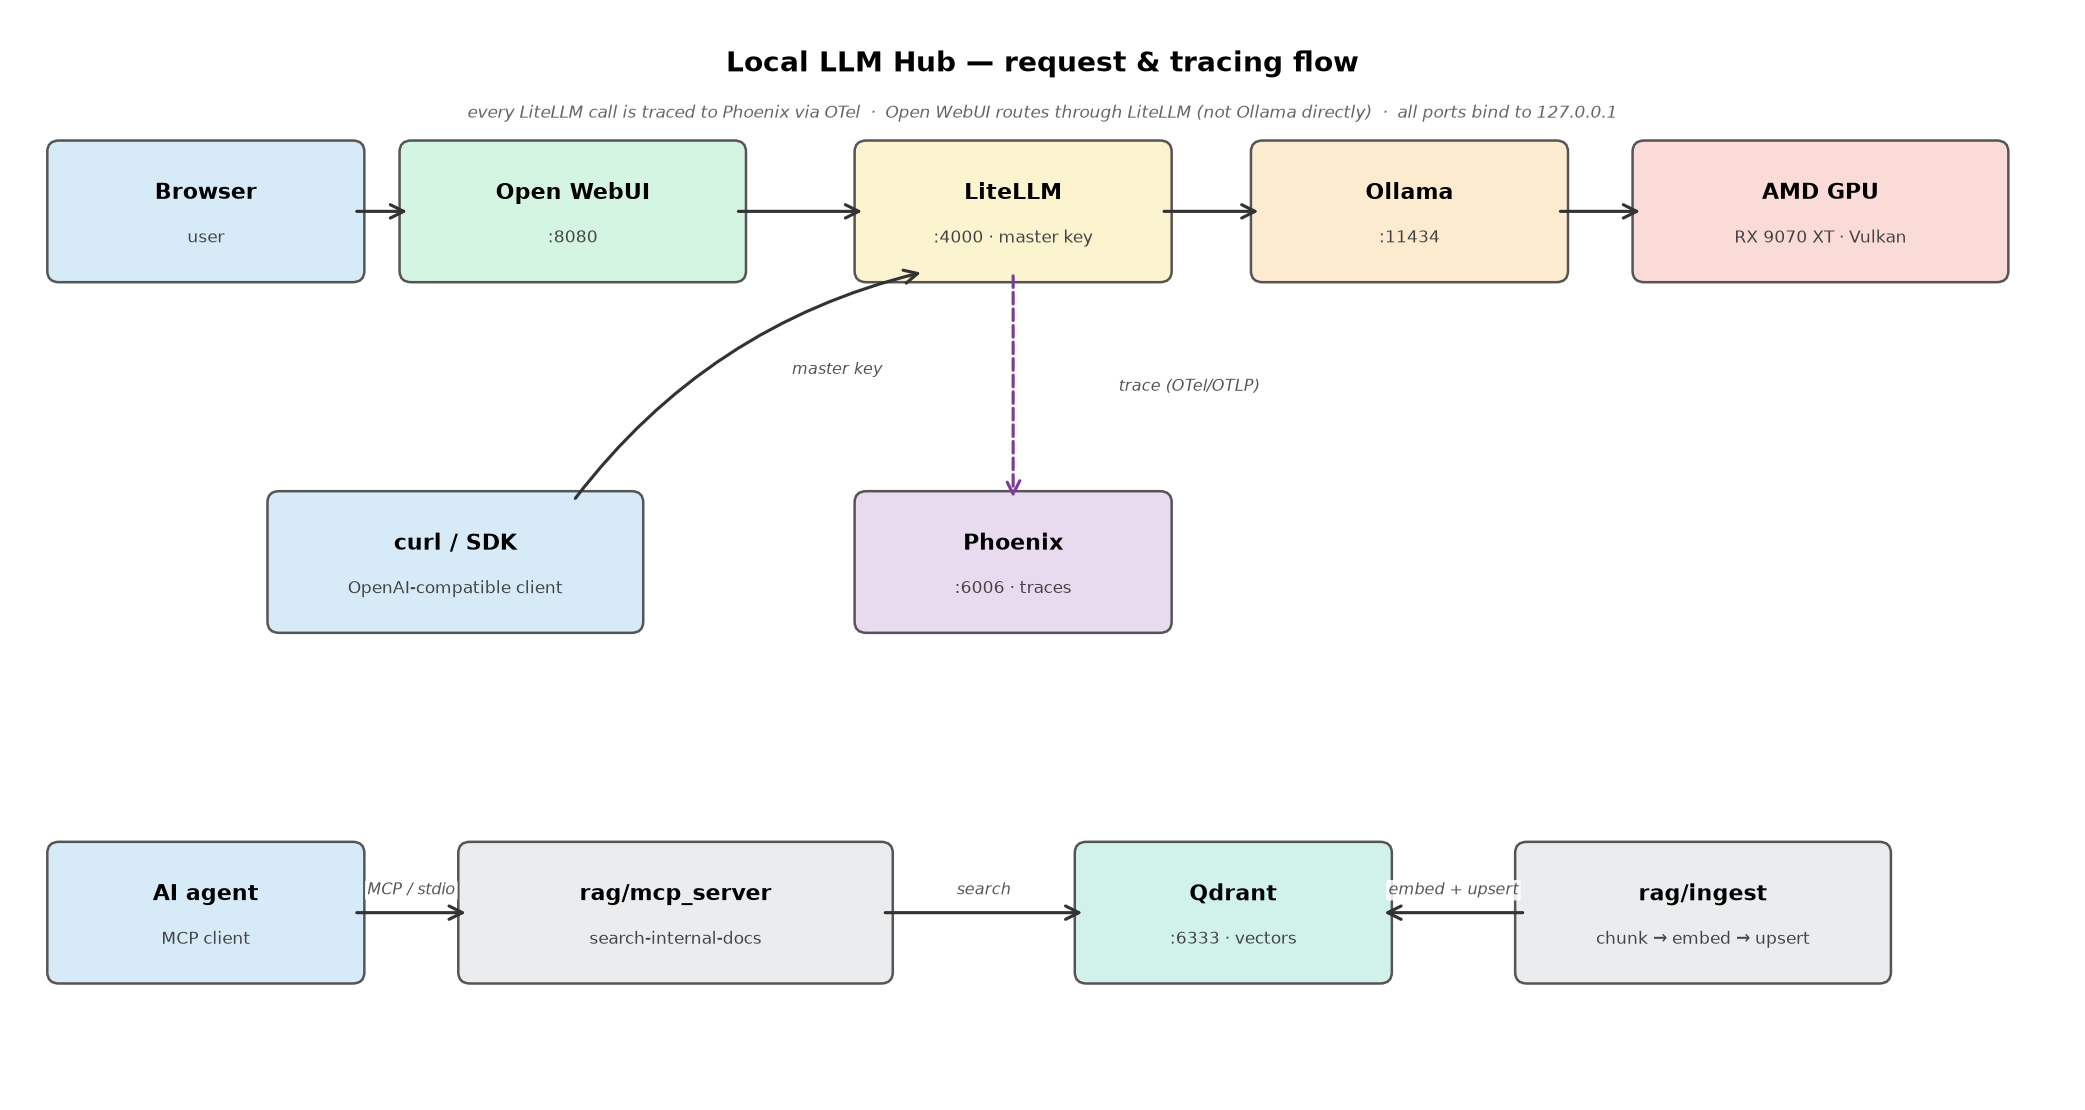
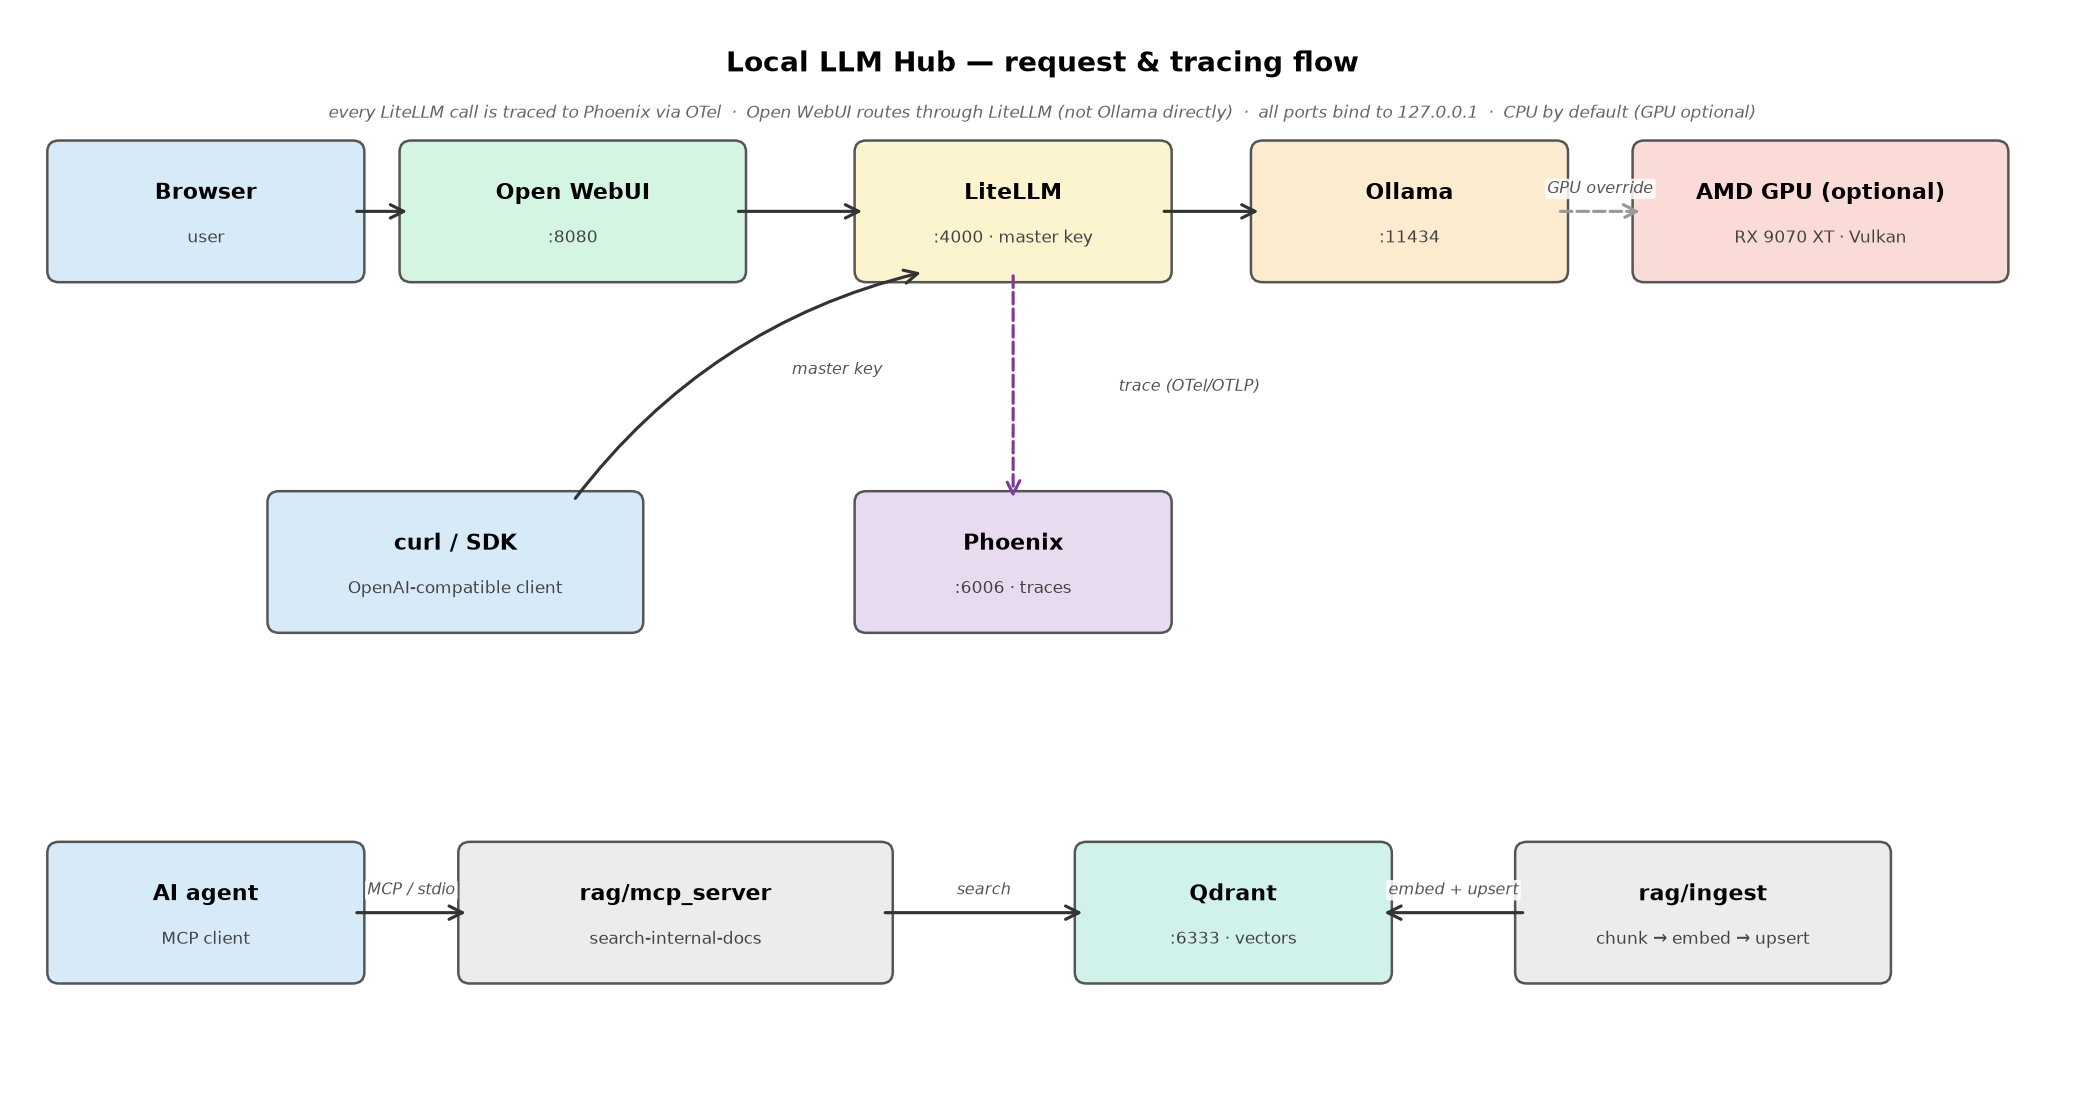
docs: mark GPU optional in architecture diagram; add K8s topology diagram

Changed region(s): [[0.1559, 0.0919, 0.8417, 0.1225], [0.717, 0.1532, 0.9353, 0.2144]]

diff --git a/assets/render_k8s_topology.py b/assets/render_k8s_topology.py
@@ -1,0 +1,127 @@
+# /// script
+# requires-python = ">=3.11"
+# dependencies = ["matplotlib"]
+# ///
+"""Render the local-llm-hub Kubernetes (kind) deployment-topology diagram.
+
+Run:  uv run assets/render_k8s_topology.py
+
+Companion to architecture.png (which shows the logical request/tracing flow).
+This shows the K8s *deployment* view:
+  - 5 single-replica Deployments + NodePort Services
+  - 4 PVCs (ollama, qdrant, phoenix, open-webui; litellm is DB-less)
+  - initContainer ordering (open-webui waits litellm; litellm waits ollama)
+  - host localhost access via kind extraPortMappings (4 ports; ollama internal-only)
+  - post-install model-pull Job
+"""
+from pathlib import Path
+
+import matplotlib
+
+matplotlib.use("Agg")
+import matplotlib.pyplot as plt
+from matplotlib.patches import FancyArrowPatch, FancyBboxPatch, Rectangle
+
+C = {
+    "entry":  "#D6EAF8",  # host
+    "pod_ow": "#D5F5E3",  # open-webui
+    "pod_ll": "#FCF3CF",  # litellm
+    "pod_ol": "#FDEBD0",  # ollama
+    "pod_qd": "#D1F2EB",  # qdrant
+    "pod_px": "#E8DAEF",  # phoenix
+    "pvc":    "#AEB6BF",  # volumes
+    "job":    "#F9E79F",  # pull job
+}
+
+fig, ax = plt.subplots(figsize=(14, 8.2))
+ax.set_xlim(0, 14)
+ax.set_ylim(0.4, 8.2)
+ax.axis("off")
+
+
+def box(cx, cy, w, h, title, subtitle, color):
+    ax.add_patch(FancyBboxPatch((cx - w / 2, cy - h / 2), w, h,
+                                boxstyle="round,pad=0.04", fc=color, ec="#555", lw=1.2))
+    ax.text(cx, cy + 0.16, title, ha="center", va="center", fontsize=9.5, fontweight="bold")
+    ax.text(cx, cy - 0.18, subtitle, ha="center", va="center", fontsize=7.5, color="#444")
+
+
+def arrow(x1, y1, x2, y2, label=None, style="-", color="#333", rad=0.0,
+          loff=(0, 0.16), fs=7.5):
+    ax.add_patch(FancyArrowPatch((x1, y1), (x2, y2),
+                                 arrowstyle="-|>", mutation_scale=12, lw=1.4,
+                                 color=color, linestyle=style,
+                                 connectionstyle=f"arc3,rad={rad}"))
+    if label:
+        mx, my = (x1 + x2) / 2 + loff[0], (y1 + y2) / 2 + loff[1]
+        ax.text(mx, my, label, ha="center", va="center", fontsize=fs, color=color,
+                bbox=dict(boxstyle="round,pad=0.15", fc="white", ec="none", alpha=0.9))
+
+
+# --- Cluster boundary ---
+ax.add_patch(Rectangle((0.4, 1.15), 13.2, 4.95, fc="#FBFCFC", ec="#7B8A8B", lw=1.4, ls="--"))
+ax.text(0.65, 5.95, "kind cluster  ·  namespace: local-llm-hub",
+        fontsize=8.5, color="#7B8A8B", fontweight="bold")
+
+# --- Host band (outside the cluster) ---
+box(7.0, 6.75, 6.4, 0.8, "Host — localhost",
+    "4000 · 8080 · 6006 · 6333  →  extraPortMappings → NodePorts", C["entry"])
+
+# --- Pods (single row) ---
+PY = 4.85
+box(1.7, PY, 2.2, 0.85, "open-webui", "Deployment · 1 replica", C["pod_ow"])
+box(4.4, PY, 2.2, 0.85, "litellm", "Deployment · 1 replica", C["pod_ll"])
+box(7.1, PY, 2.2, 0.85, "ollama", "Deployment · 1 replica", C["pod_ol"])
+box(9.8, PY, 2.2, 0.85, "qdrant", "Deployment · 1 replica", C["pod_qd"])
+box(12.5, PY, 2.2, 0.85, "phoenix", "Deployment · 1 replica", C["pod_px"])
+
+# --- Service annotations (under each pod) ---
+for x, t in [
+    (1.7, "Service :8080 → 30080"),
+    (4.4, "Service :4000 → 30400"),
+    (7.1, "Service :11434 (internal)"),
+    (9.8, "Service :6333 → 30333"),
+    (12.5, "Service :6006 → 30006"),
+]:
+    ax.text(x, 4.15, t, ha="center", va="center", fontsize=7, color="#555",
+            bbox=dict(boxstyle="round,pad=0.15", fc="white", ec="#bbb", lw=0.6))
+
+# --- PVCs (litellm has none — DB-less) ---
+box(1.7, 3.2, 2.2, 0.6, "open-webui-data", "PVC · 2Gi", C["pvc"])
+box(7.1, 3.2, 2.2, 0.6, "ollama-models", "PVC · 30Gi", C["pvc"])
+box(9.8, 3.2, 2.2, 0.6, "qdrant-data", "PVC · 5Gi", C["pvc"])
+box(12.5, 3.2, 2.2, 0.6, "phoenix-data", "PVC · 2Gi", C["pvc"])
+ax.text(4.4, 3.2, "(no PVC — DB-less)", ha="center", va="center",
+        fontsize=7, style="italic", color="#888")
+
+# pod -> PVC
+for x in (1.7, 7.1, 9.8, 12.5):
+    arrow(x, PY - 0.43, x, 3.5, color="#999")
+
+# --- host -> mapped pods (ollama intentionally skipped: internal only) ---
+for x in (1.7, 4.4, 9.8, 12.5):
+    arrow(7.0, 6.35, x, PY + 0.43, color="#2E86C1")
+
+# --- initContainer waits (dashed, between adjacent pods) ---
+arrow(2.8, PY, 3.3, PY, label="init: wait :4000", style="--", color="#B9770E")
+arrow(5.5, PY, 6.0, PY, label="init: wait :11434", style="--", color="#B9770E")
+
+# --- OTel trace: litellm -> phoenix, arcing over the pod row ---
+arrow(5.5, PY + 0.25, 11.4, PY + 0.25, label="OTel trace", style="--",
+      color="#7D3C98", rad=-0.32, loff=(0, 0.05))
+
+# --- post-install model-pull Job (near ollama) ---
+box(7.1, 1.75, 3.6, 0.7, "post-install Job", "ollama-pull: llama3.2 + nomic-embed-text", C["job"])
+arrow(7.1, 2.1, 7.1, 2.9, color="#B7950B")
+
+# --- Title + caption ---
+ax.text(7, 7.9, "Local LLM Hub on Kubernetes (kind) — deployment topology",
+        ha="center", va="center", fontsize=13, fontweight="bold")
+ax.text(7, 7.6, "5 Deployments · 5 NodePort Services · 4 PVCs · initContainer ordering · "
+                "post-install model-pull Job · Ollama internal-only",
+        ha="center", va="center", fontsize=8, color="#666", style="italic")
+
+plt.tight_layout()
+out = Path(__file__).parent / "k8s_topology.png"
+plt.savefig(out, dpi=150, bbox_inches="tight")
+print(f"saved {out}  ({out.stat().st_size:,} bytes)")

diff --git a/assets/render_architecture.py b/assets/render_architecture.py
@@ -7,7 +7,7 @@
 Run:  uv run assets/render_architecture.py
 
 Layout:
-  Top row    — main chat path: Browser → Open WebUI → LiteLLM → Ollama → GPU
+  Top row    — main chat path: Browser → Open WebUI → LiteLLM → Ollama → GPU (optional)
   Mid-left   — second entry point: curl/SDK → LiteLLM (master key)
   Mid-center — tracing side-channel: LiteLLM → Phoenix (OTel/OTLP)
   Bottom row — RAG layer: AI agent → rag/mcp_server → Qdrant ← rag/ingest
@@ -66,12 +66,12 @@ box(1.3, 6.8, 2.0, 0.85, "Browser", "user", C["entry"])
 box(3.8, 6.8, 2.2, 0.85, "Open WebUI", ":8080", C["webui"])
 box(6.8, 6.8, 2.0, 0.85, "LiteLLM", ":4000 · master key", C["gateway"])
 box(9.5, 6.8, 2.0, 0.85, "Ollama", ":11434", C["engine"])
-box(12.3, 6.8, 2.4, 0.85, "AMD GPU", "RX 9070 XT · Vulkan", C["gpu"])
+box(12.3, 6.8, 2.4, 0.85, "AMD GPU (optional)", "RX 9070 XT · Vulkan", C["gpu"])
 
 arrow(2.3, 6.8, 2.7, 6.8)
 arrow(4.9, 6.8, 5.8, 6.8)
 arrow(7.8, 6.8, 8.5, 6.8)
-arrow(10.5, 6.8, 11.1, 6.8)
+arrow(10.5, 6.8, 11.1, 6.8, label="GPU override", style="--", color="#999")
 
 # --- Tracing side-channel (LiteLLM → Phoenix) ---
 box(6.8, 4.3, 2.0, 0.85, "Phoenix", ":6006 · traces", C["obs"])
@@ -97,7 +97,7 @@ ax.text(7, 7.85, "Local LLM Hub — request & tracing flow",
         ha="center", va="center", fontsize=13.5, fontweight="bold")
 ax.text(7, 7.5, "every LiteLLM call is traced to Phoenix via OTel  ·  "
         "Open WebUI routes through LiteLLM (not Ollama directly)  ·  "
-        "all ports bind to 127.0.0.1",
+        "all ports bind to 127.0.0.1  ·  CPU by default (GPU optional)",
         ha="center", va="center", fontsize=8, color="#666", style="italic")
 
 plt.tight_layout()